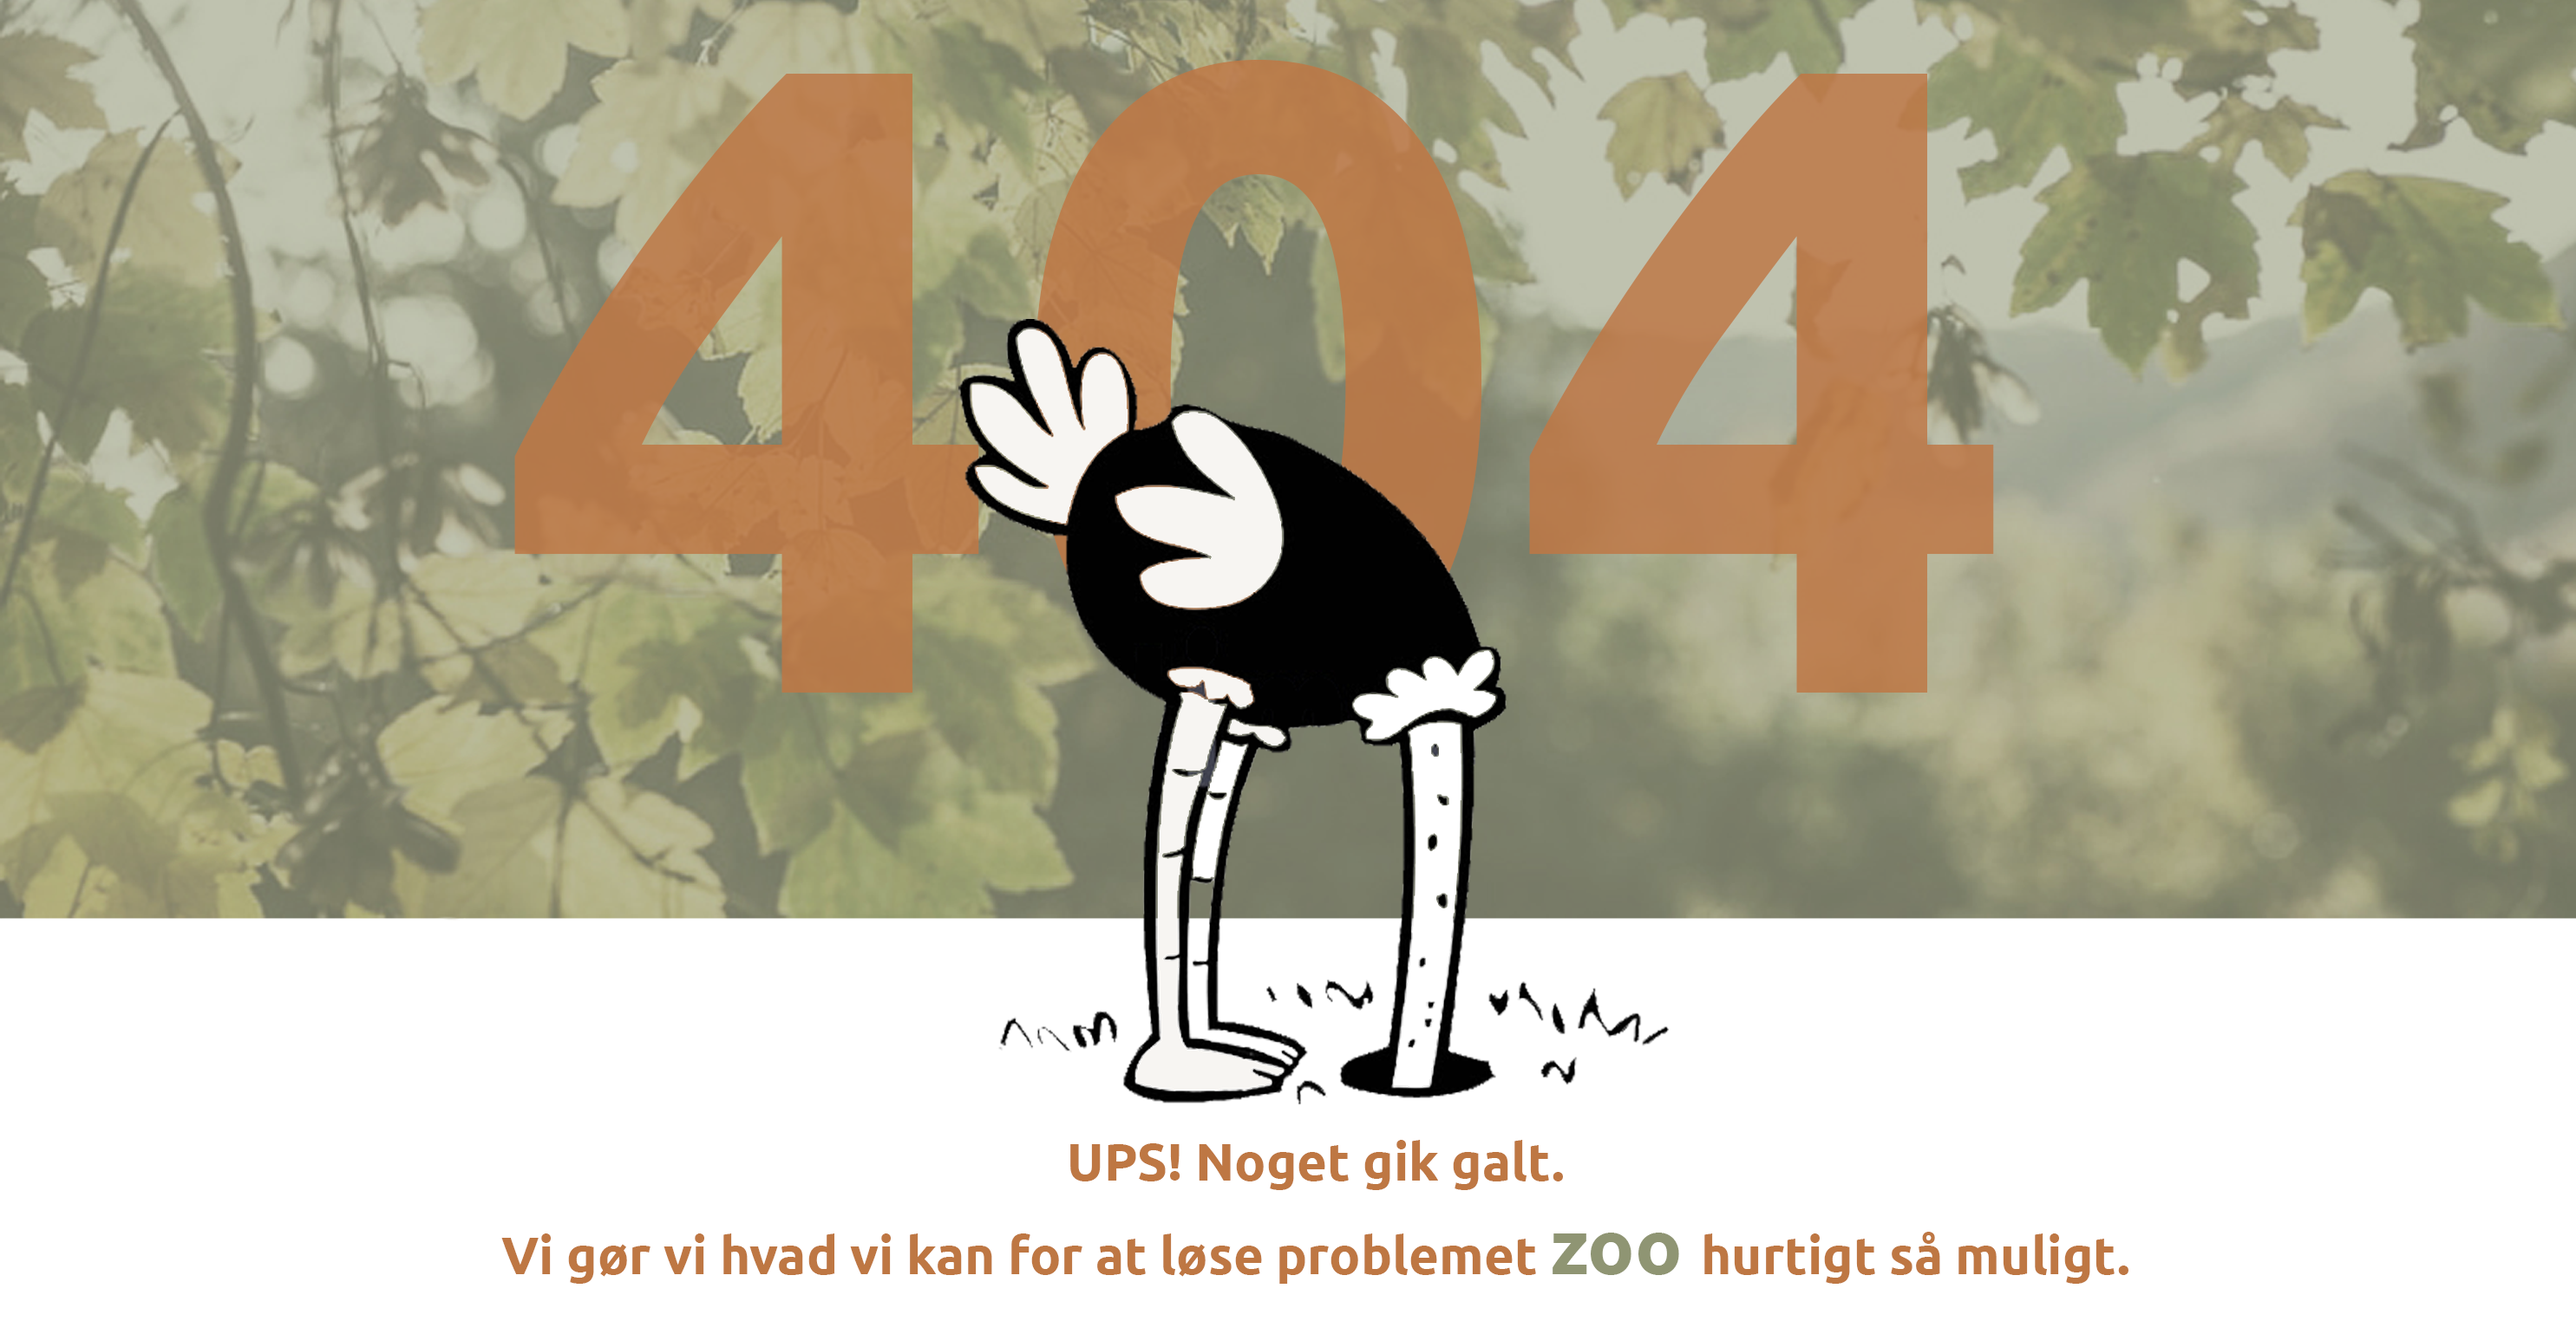
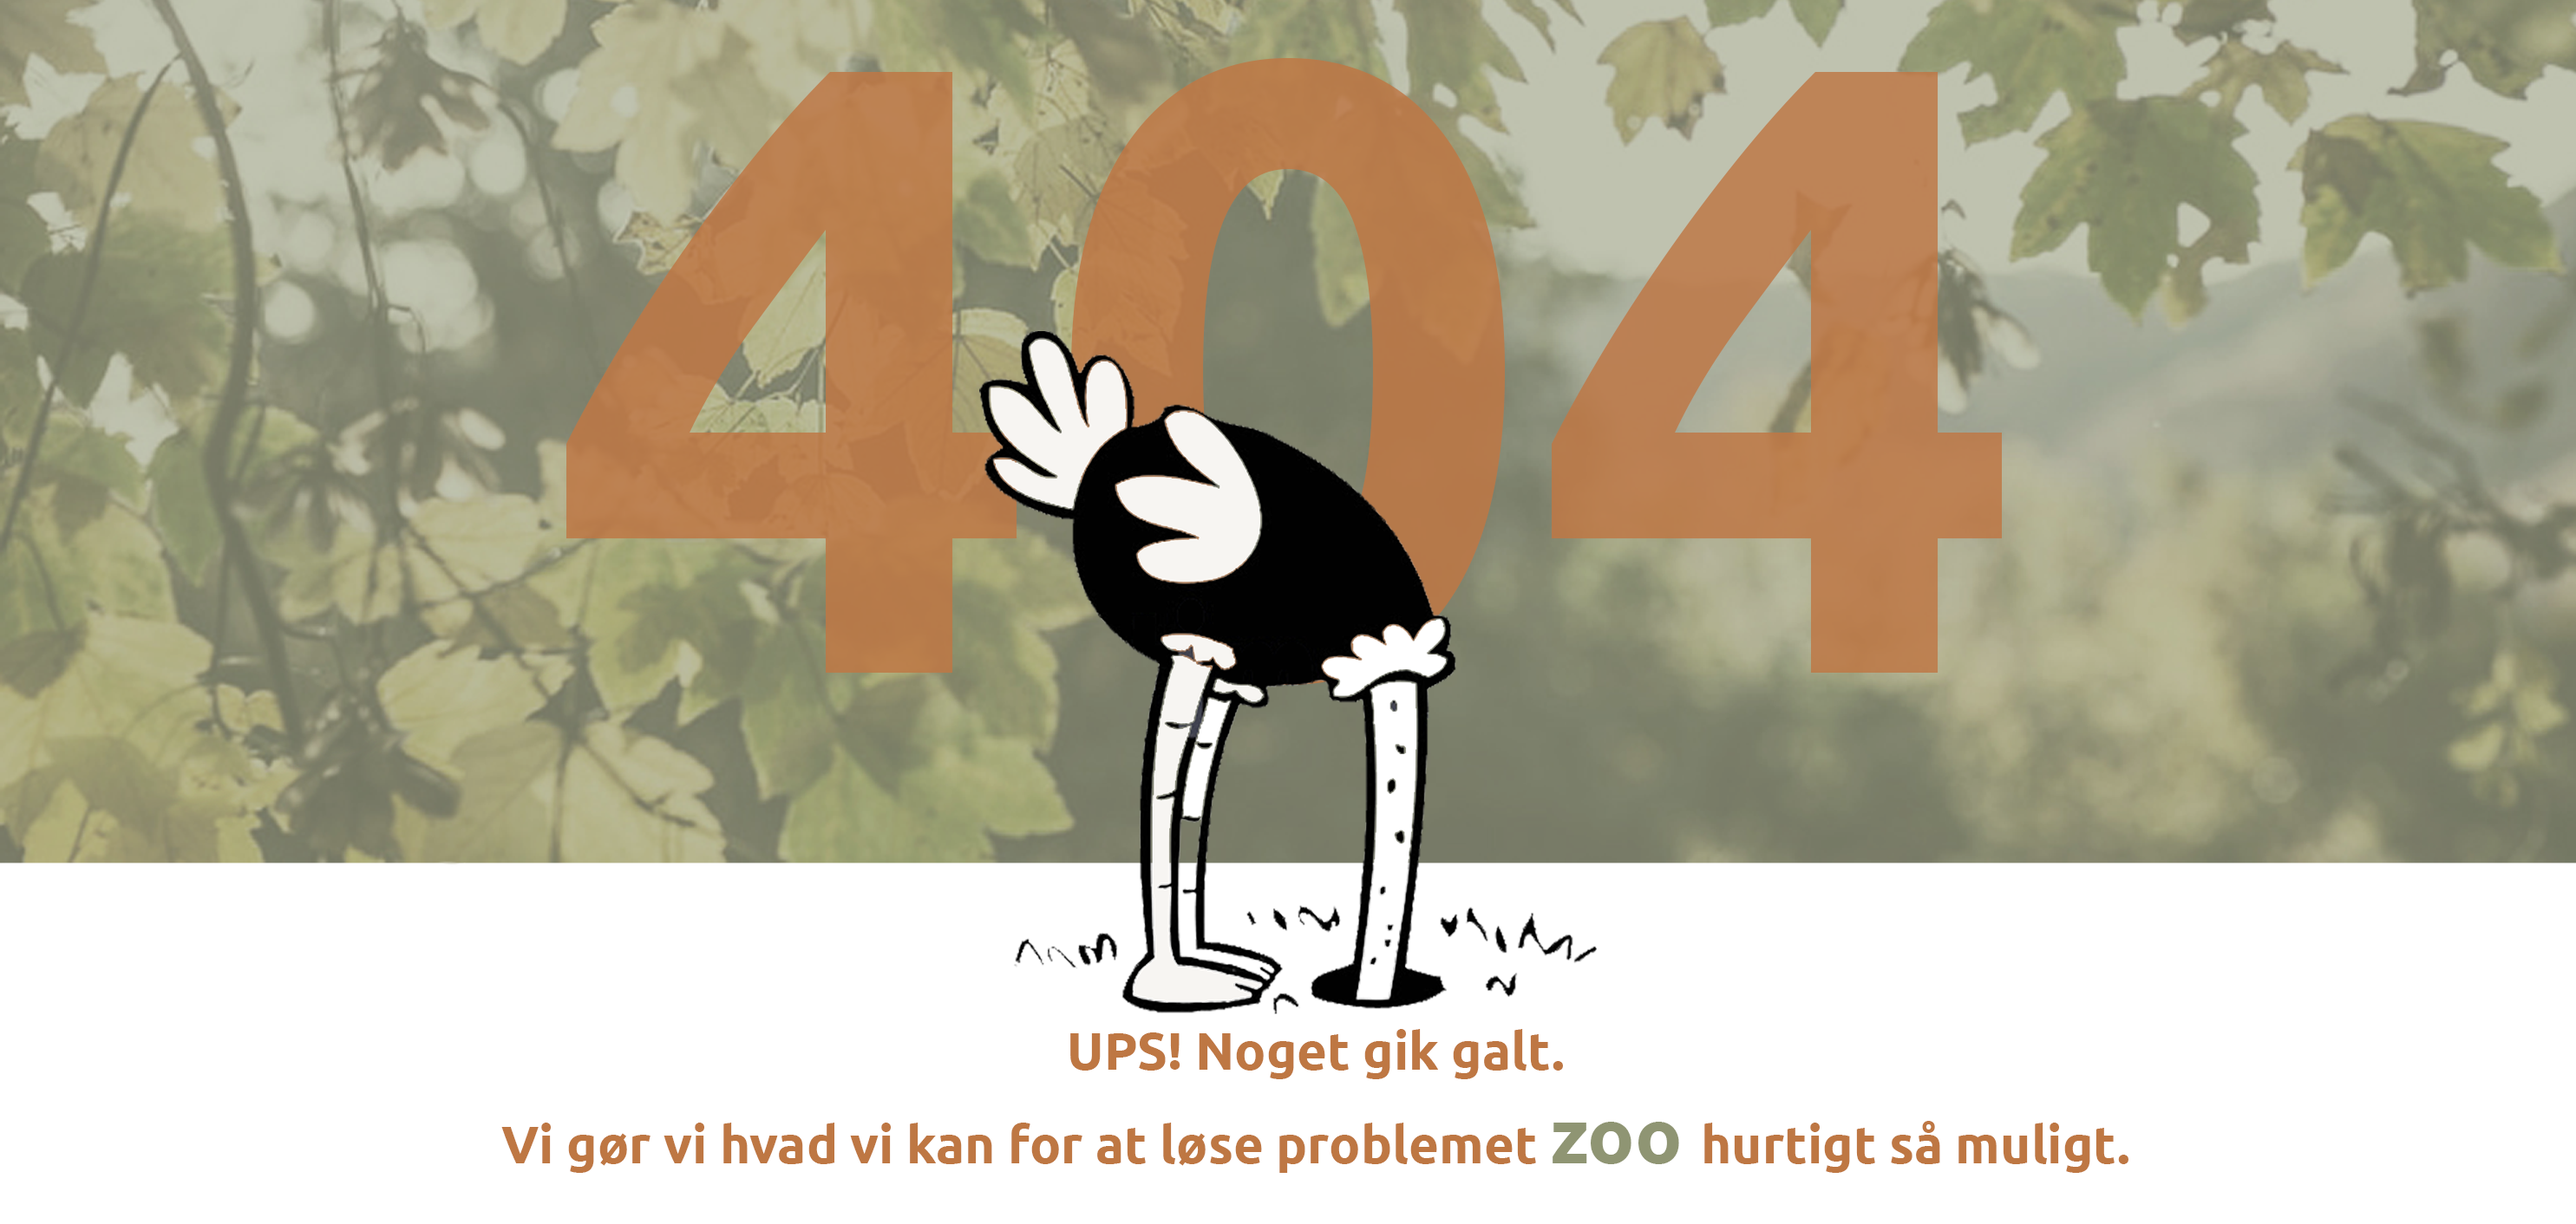
ny 404

Changed region(s): [[0.0, 0.0, 1.0, 0.966], [0.8983, 0.4051, 1.0, 0.4986], [0.1239, 0.4986, 0.1549, 0.5297]]

diff --git a/eksamen/404.html b/eksamen/404.html
@@ -20,7 +20,7 @@
 </header>
         
 <body>
-<img src="images/404%20side2.png">     
+<img src="images/404.png">     
             
                            
 </body>

diff --git a/eksamen/css/404.css b/eksamen/css/404.css
@@ -2,7 +2,7 @@
 
 body img {
     
- width: 50%;
+ width: 100%;
 }
 
 
